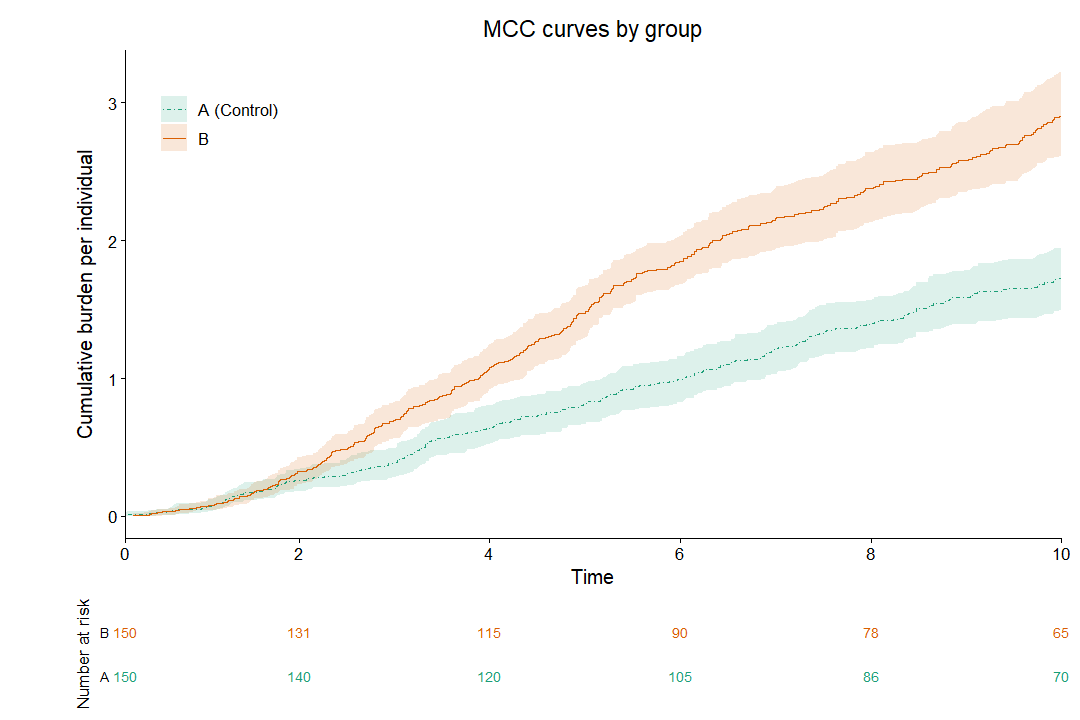
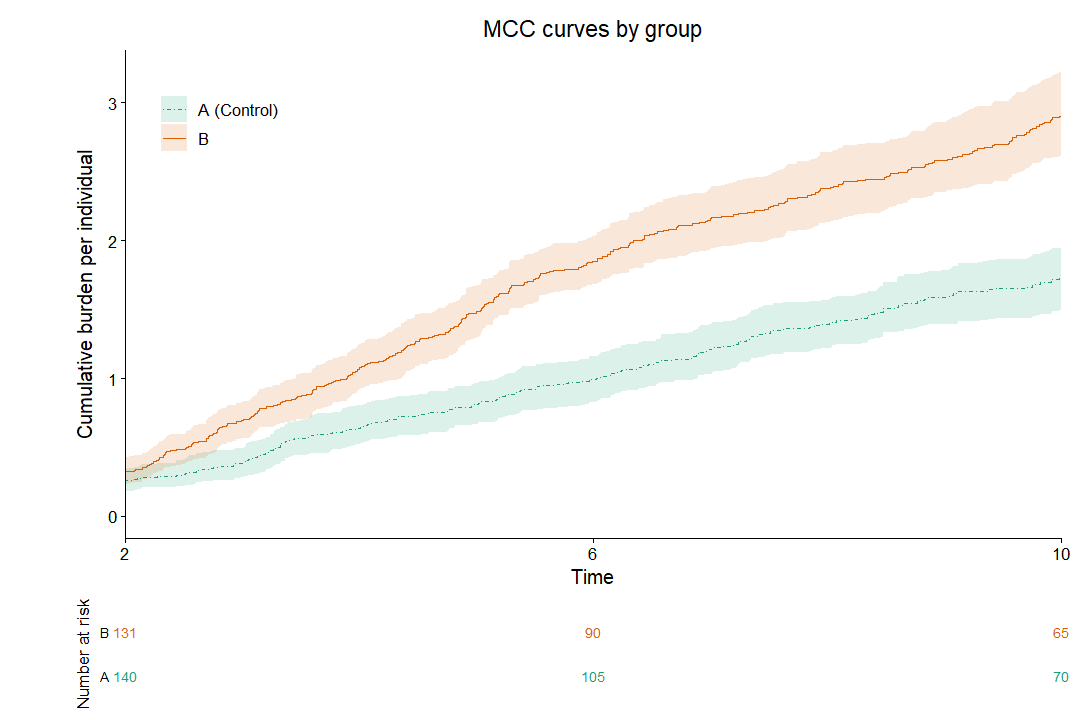
Update README file
Refine the format and contents.

diff --git a/README.md b/README.md
@@ -10,8 +10,10 @@ Cumulative Count (MCC) method.
 It is specifically designed to handle complex longitudinal survival
 data, accurately applying time-dependent censoring and truncation
 weights for left-truncated data in the presence of competing risks. The
-methodology implements an optimized Geskus (2011) weighting approach,
-making it highly suitable for complex, long-term cohort studies.
+methodology implements an optimized [Geskus
+(2011)](https://onlinelibrary.wiley.com/doi/full/10.1111/j.1541-0420.2010.01420.x)
+weighting approach, making it highly suitable for complex, long-term
+cohort studies.
 
 # Installation
 
@@ -87,6 +89,8 @@ head(mydata)
 
 ## 2. Run Stratified MCC with Bootstrap Confidence Intervals
 # Set ci = TRUE to compute bootstrap intervals
+# For demonstration purposes, only 100 bootstrap iterations (niter = 100) are used to reduce computation time. For actual statistical analyses, a larger number of bootstrap iterations (e.g., niter = 1000 or more) is recommended to obtain more stable confidence interval estimates.
+
 result <- mcc(id = mydata$id, 
               time = mydata$time, 
               status = mydata$status, 
@@ -98,6 +102,16 @@ result <- mcc(id = mydata$id,
                  
 ## 3. Extract numeric estimates
 estimates_df <- as.data.frame(result)
+head(estimates_df)
+#> # A tibble: 6 × 5
+#>   group  time     MCC     lci    uci
+#>   <chr> <dbl>   <dbl>   <dbl>  <dbl>
+#> 1 A     0.178 0.00667 0       0.0233
+#> 2 A     0.193 0.0133  0       0.0333
+#> 3 A     0.422 0.02    0       0.0433
+#> 4 A     0.480 0.02    0       0.0433
+#> 5 A     0.497 0.0267  0.00667 0.0501
+#> 6 A     0.632 0.0334  0.00667 0.0601
 ```
 
 To display a concise numerical summary at selected time points:
@@ -143,8 +157,7 @@ plot(result, risk_times = c(2, 4, 6, 8, 10))
 Confidence ribbons require confidence limits from an `mcc()` fit with
 `ci = TRUE`. For a fit with `ci = FALSE`, the function can still display
 MCC curves and a risk table without ribbons. The example above uses
-`niter = 100` for illustration; larger bootstrap runs may be appropriate
-for substantive analyses.
+`niter = 100` for illustration.
 
 ## 2. Highlight a control group and customize colors
 
@@ -164,34 +177,23 @@ plot(
 ![](man/figures/README-control-colors-1.png)<!-- -->
 
 `color_values` and `line_values` are **named vectors indexed by the
-original group names**, not by the displayed legend labels. A
-user-specified line type overrides the default dashed control line:
+original group names**, not by the displayed legend labels. By default,
+the control group is represented by a dashed line, but this can be
+overridden by specifying a custom line type through line_values.
+Additionally, users can customize the risk-table time points using the
+risk_times argument.
 
 ``` r
 plot(
   result,
   control_group = "A",
   line_values = c(A = "dotdash", B = "solid"),
-  palette = "Dark2"
+  palette = "Dark2",
+  risk_times = c(2, 6, 10)
 )
 ```
 
 ![](man/figures/README-control-line-types-1.png)<!-- -->
-
-## 3. Select groups and control risk-table time points
-
-``` r
-# Display only group B
-# Display group B and automatically include the specified control group A
-plot(
-  result,
-  group_value = "B",
-  control_group = "A",
-  risk_times = c(2, 4, 6, 8, 10)
-)
-```
-
-![](man/figures/README-selected-groups-1.png)<!-- -->
 
 The risk table counts **distinct subjects**, not recurrent-event
 records. For left-truncated analyses, a subject is counted at time `t`
@@ -199,20 +201,19 @@ when their entry time is strictly before `t` and their observed exit
 time is at or after `t` (`Tstart < t <= time`). Without left truncation,
 the criterion is `time >= t`. These counts describe the observed risk
 sets, not inverse-probability-weighted effective sample sizes.
-
 `risk_times` sets the displayed risk-table time points and the
 corresponding x-axis ticks. When omitted, the function chooses default
 time points based on the observed MCC time range.
 
-## 4. Choose the analysis time scale
+## 3. Choose the analysis time scale
 
 The `time` and `Tstart` inputs must use the **same time scale**. For an
-age-scale analysis, `time` is age at each event or censoring and
-`Tstart` is age at study entry. The delayed-entry example below uses the
-simulated dataset on its generic follow-up time scale.
+age-scale analysis, `time` is age at each event or competing risk or
+censoring and `Tstart` is age at study entry. The delayed-entry example
+below uses the simulated dataset on its generic follow-up time scale.
 
 ``` r
-# Follow-up-time analysis with delayed entry
+
 fit_delayed <- mcc(
   id = mydata$id, time = mydata$time, status = mydata$status,
   Tstart = mydata$tstart, group = mydata$group
@@ -220,8 +221,9 @@ fit_delayed <- mcc(
 plot(fit_delayed, conf_int = FALSE, xlab = "Follow-up time")
 ```
 
-![](man/figures/README-delayed-entry-1.png)<!-- --> \## 5. Customize
-themes, labels, and layout
+![](man/figures/README-delayed-entry-1.png)<!-- -->
+
+## 4. Customize themes, labels, and layout
 
 ``` r
 plot(
@@ -244,10 +246,10 @@ plot(
 
 ![](man/figures/README-custom-layout-1.png)<!-- -->
 
-## 6. Retrieve and reuse the plot components
+## 5. Retrieve and reuse the plot components
 
-Unlike `plot(result)`, the standalone function returns a list of plot
-objects and data:
+Unlike `plot(result)`, the standalone function
+`plot_mcc_with_risk_table` returns a list of plot objects and data:
 
 ``` r
 p <- plot_mcc_with_risk_table(
@@ -280,7 +282,7 @@ p$plot
 # ggplot2::ggsave("mcc_plot.png", plot = p$plot, width = 8, height = 6, dpi = 300)
 ```
 
-## 7. Plot an unstratified analysis
+## 6. Plot an unstratified analysis
 
 ``` r
 result_overall <- mcc(
@@ -291,7 +293,7 @@ result_overall <- mcc(
   ci = FALSE
 )
 
-plot(result_overall, conf_int = FALSE, title = "Overall MCC")
+plot(result_overall, title = "Overall MCC")
 ```
 
 ![](man/figures/README-unstratified-plot-1.png)<!-- -->
@@ -330,17 +332,62 @@ caller’s random-number-generator state.
 ``` r
 # Simulate one individual directly
 set.seed(2026)
+
 one_subject <- simulate_subject(
-  id = 1, group = "A", entry_time = 0.5,
-  event_rate = 0.22, death_rate = 0.03, censor_rate = 0.05
+  id = 1,
+  group = "A",
+  entry_time = 0.5,
+  max_followup = 10,
+  event_rate = 0.22,
+  death_rate = 0.03,
+  censor_rate = 0.05
 )
 
-# Simulate an unstratified example by omitting group from mcc()
-overall_fit <- mcc(
-  id = mydata$id, time = mydata$time, status = mydata$status,
-  Tstart = mydata$Tstart
+one_subject
+#>   id    time status Tstart group
+#> 1  1 2.76122      0    0.5     A
+```
+
+``` r
+# Simulate two groups with different recurrent-event rates
+mydata <- simulate_mcc_data(
+  n_per_group = 100,
+  event_rates = c(A = 0.22, B = 0.38),
+  max_followup = 10,
+  entry_range = c(0, 2),
+  seed = 2026
 )
-invisible(overall_fit)
+
+# Preview the first five subject
+first_5_ids <- unique(mydata$id)[1:5]
+mydata_5 <- mydata[mydata$id %in% first_5_ids, ]
+print(mydata_5)
+#>   id      time status    Tstart group
+#> 1  1  7.079862      0 1.3973469     A
+#> 2  2 10.000000      0 1.1130610     A
+#> 3  3  1.959921      0 0.2802799     A
+#> 4  4 10.000000      0 0.5714466     A
+#> 5  5  2.239416      1 1.1107380     A
+#> 6  5  3.159859      1 1.1107380     A
+#> 7  5  7.148878      1 1.1107380     A
+#> 8  5  9.700798      2 1.1107380     A
+
+# Number of unique subjects in each group
+table(
+  mydata$group[
+    !duplicated(mydata$id)
+  ]
+)
+#> 
+#>   A   B 
+#> 100 100
+
+# Distribution of recurrent events, censoring, and competing risks
+table(mydata$group, mydata$status)
+#>    
+#>       0   1   2
+#>   A  77 143  23
+#>   B  84 266  16
 ```
 
 For function arguments and return values, see `?simulate_subject` and
